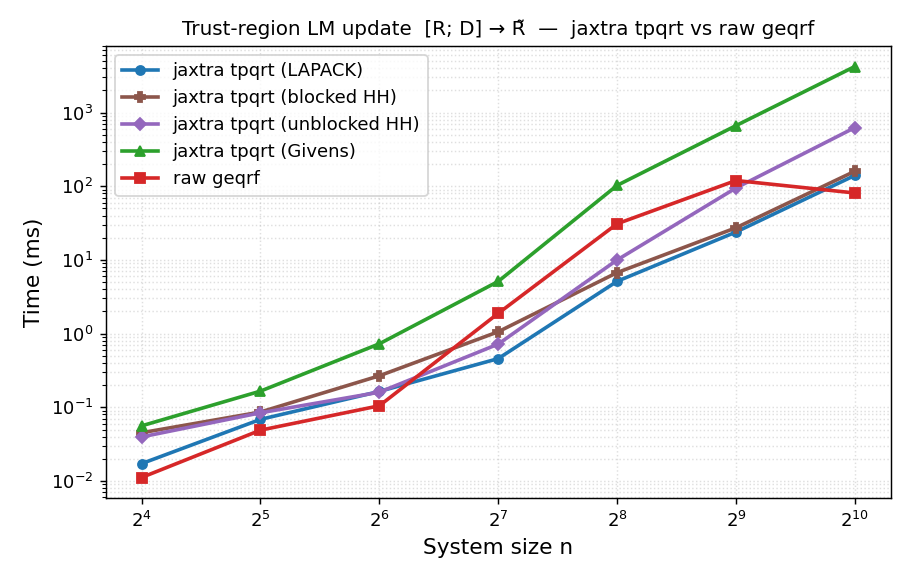
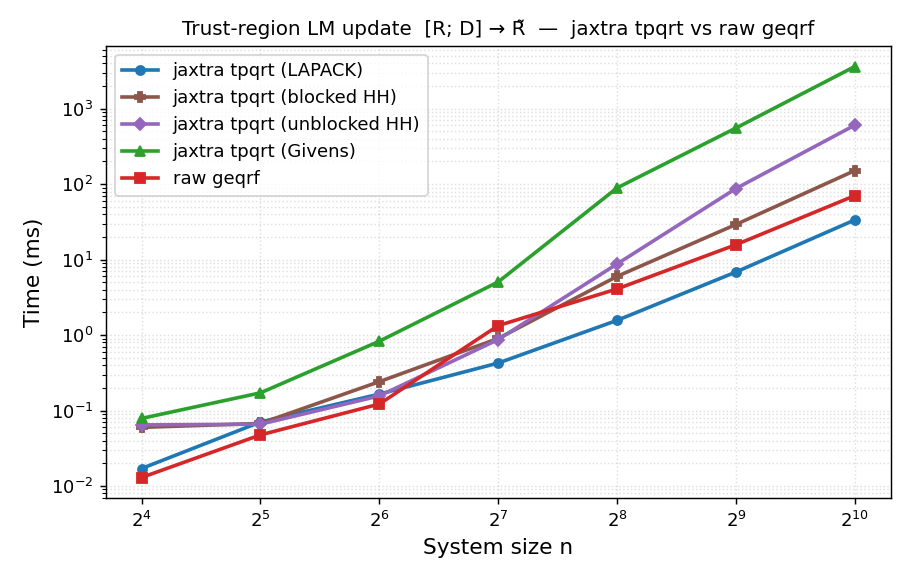
refactor: scan-based Householder tpqrt fallbacks
Replaces the fori_loops in the Householder fallbacks with lax.scan, scanning
column by column. The unblocked core and the within-panel factorisation now
*emit* each finished R row (and the reflector tail / tau) as scan outputs, so
XLA stacks them — no manual R row scatter (.at[j].set) at all. The T-factor
build is likewise a scan.

Performance is neutral-to-slightly-better (blocked HH ~152 ms vs ~160 ms at
n=1024) with cleaner code; CPU timing is noisy run-to-run, so the relative
ordering (blocked HH << unblocked << Givens, blocked HH within a few x of the
LAPACK FFI path) is the reliable signal.

Claude-Session: https://claude.ai/code/session_01Aj8oNz6aLvSocZHjG7B84h

diff --git a/jaxtra/_src/lax/linalg.py b/jaxtra/_src/lax/linalg.py
@@ -773,9 +773,9 @@ def _tpqrt_householder_2d(a, b, l):
   The unblocked LAPACK-like fallback. Column ``j`` of the stack ``[a; b]`` has
   all of its sub-diagonal mass in ``b`` (``a`` is already upper triangular), so
   a single Householder reflector mixing the pivot row ``R[j, :]`` with the ``m``
-  rows of ``b`` zeros ``b[:, j]``. Sweeping ``j = 0 .. n-1`` triangularises the
-  stack in ``n`` steps, each a dense rank-1 update — no gather/scatter, only a
-  single ``dynamic_update_slice`` for the pivot row.
+  rows of ``b`` zeros ``b[:, j]``. We ``scan`` over the columns, carrying ``B``
+  and *emitting* each finished row of ``R`` — XLA stacks the outputs, so no
+  explicit row scatter is needed.
   """
   n = a.shape[-1]
   m = b.shape[-2]
@@ -787,16 +787,15 @@ def _tpqrt_householder_2d(a, b, l):
   R = jnp.triu(a)
   B = b * _tpqrt_pentagonal_mask(m, n, l, dtype)
 
-  def body(j, carry):
-    R, B = carry
-    tau, v_tail = _tpqrt_reflector(R[j, j], B[:, j], conj, real)
+  def body(B, xs):
+    j, r_row = xs                          # r_row = original R[j, :]
+    tau, v_tail = _tpqrt_reflector(r_row[j], B[:, j], conj, real)
     # vᴴ P over the stacked pivot row and B (columns < j are already zero).
-    vHP = R[j, :] + conj(v_tail) @ B
-    R = R.at[j].set(R[j, :] - tau * vHP)
+    vHP = r_row + conj(v_tail) @ B
     B = B - tau * v_tail[:, None] * vHP[None, :]
-    return R, B
+    return B, r_row - tau * vHP
 
-  R, B = control_flow.fori_loop(0, n, body, (R, B))
+  _, R = jax.lax.scan(body, B, (jnp.arange(n), R))
   return jnp.triu(R)
 
 
@@ -817,7 +816,7 @@ def _tpqrt_blocked_householder_2d(a, b, l, nb):
   The dense trailing update is what closes the gap to ``geqrf`` at large ``n``.
   The panel loop is a Python loop (the panel count is static), so all offsets
   and slice widths are statically known — no padding, masking, or dynamic
-  slicing. Only the within-panel work is a ``fori_loop`` (over small fixed-size
+  slicing. Only the within-panel work is a ``scan`` (over small fixed-size
   blocks), keeping the traced graph ``O(n / nb)`` rather than ``O(n)``.
   """
   n = a.shape[-1]
@@ -837,30 +836,28 @@ def _tpqrt_blocked_householder_2d(a, b, l, nb):
     Bp = B[:, p:p + pb]                        # panel columns of B (m x pb)
     iota = jnp.arange(pb)
 
-    # 1. Unblocked factorisation of the panel; collect V_B and tau.
-    def col_body(jl, c):
-      Rpp, Bp, Vb, Tau = c
-      tau, u = _tpqrt_reflector(Rpp[jl, jl], Bp[:, jl], conj, real)
-      Vb = Vb.at[:, jl].set(u)
-      Tau = Tau.at[jl].set(tau)
-      vHP = Rpp[jl, :] + conj(u) @ Bp          # within-panel only (pb,)
-      Rpp = Rpp.at[jl, :].set(Rpp[jl, :] - tau * vHP)
+    # 1. Unblocked factorisation of the panel: scan over panel columns,
+    #    emitting each finished R row, the reflector tail and tau.
+    def col_body(Bp, xs):
+      jl, rpp_row = xs
+      tau, u = _tpqrt_reflector(rpp_row[jl], Bp[:, jl], conj, real)
+      vHP = rpp_row + conj(u) @ Bp              # within-panel only (pb,)
       Bp = Bp - tau * u[:, None] * vHP[None, :]
-      return Rpp, Bp, Vb, Tau
+      return Bp, (rpp_row - tau * vHP, u, tau)
 
-    Rpp, Bp, Vb, Tau = control_flow.fori_loop(
-        0, pb, col_body,
-        (Rpp, Bp, jnp.zeros((m, pb), dtype), jnp.zeros((pb,), dtype)))
+    Bp, (Rpp, Vb_rows, Tau) = jax.lax.scan(col_body, Bp, (iota, Rpp))
+    Vb = Vb_rows.T                              # (m, pb) reflector tails
 
     # 2. Triangular factor T of the block reflector (T[i, j], i <= j).
-    def t_body(j, T):
-      x = (conj(Vb).T @ Vb[:, j]) * (iota < j)  # V_Bᴴ v_j, masked to i < j
+    def t_body(T, xs):
+      j, vj = xs
+      x = (conj(Vb).T @ vj) * (iota < j)        # V_Bᴴ v_j, masked to i < j
       col = -Tau[j] * (T @ x)                    # rows >= j vanish (T upper-▲)
       col = jnp.where(iota == j, Tau[j],
                       jnp.where(iota < j, col, jnp.zeros_like(col)))
-      return T.at[:, j].set(col)
+      return T.at[:, j].set(col), None
 
-    T = control_flow.fori_loop(0, pb, t_body, jnp.zeros((pb, pb), dtype))
+    T, _ = jax.lax.scan(t_body, jnp.zeros((pb, pb), dtype), (iota, Vb.T))
     R = R.at[p:p + pb, p:p + pb].set(Rpp)
 
     # 3. BLAS-3 trailing update: Qᴴ = I - V Tᴴ Vᴴ on columns [p + pb:].
